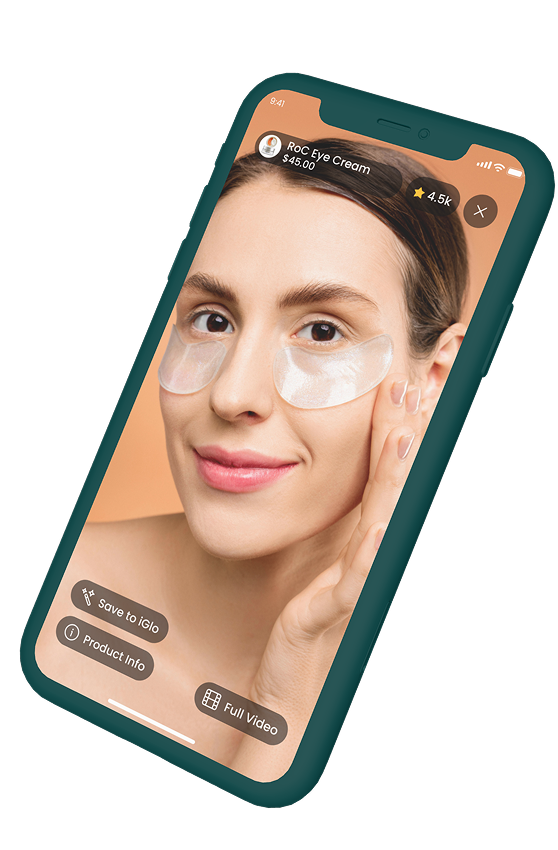
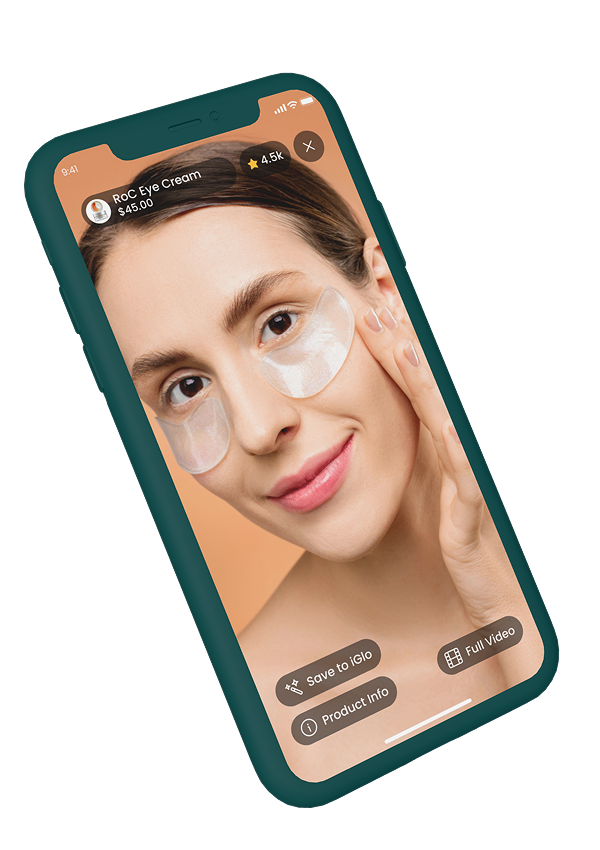
feat: add how it works section

diff --git a/components/how-it-works.tsx b/components/how-it-works.tsx
@@ -1,82 +1,100 @@
+"use client";
+
 import Image from "next/image";
+import { motion } from "framer-motion";
 import { Button } from "./ui/button";
-import { Shield, Zap, Globe } from "lucide-react";
+import { Upload, Sparkles, LineChart } from "lucide-react";
 
 export default function HowItWorks() {
   return (
     <section className="py-20">
-      <div className="grid lg:grid-cols-2 gap-16 items-center">
-        {/* Left Content */}
-        <div className="space-y-8">
-          <div className="space-y-4">
-            <h2 className="text-4xl lg:text-5xl font-bold text-balance">
-              Transfer money with confidence
-            </h2>
-            <p className="text-gray-400 text-lg text-pretty">
-              Experience seamless money transfers with bank-level security,
-              instant notifications, and competitive exchange rates. Send money
-              globally in seconds, not days.
-            </p>
-          </div>
-
-          <div className="space-y-6">
-            <div className="flex items-start gap-4">
-              <div className="bg-amber-400/20 p-3 rounded-full">
-                <Shield className="w-6 h-6 text-amber-400" />
-              </div>
-              <div>
-                <h3 className="text-xl font-semibold mb-2">
-                  Bank-level Security
-                </h3>
-                <p className="text-gray-400">
-                  Your money and data are protected with enterprise-grade
-                  encryption and fraud detection.
-                </p>
-              </div>
-            </div>
-
-            <div className="flex items-start gap-4">
-              <div className="bg-amber-400/20 p-3 rounded-full">
-                <Zap className="w-6 h-6 text-amber-400" />
-              </div>
-              <div>
-                <h3 className="text-xl font-semibold mb-2">
-                  Instant Transfers
-                </h3>
-                <p className="text-gray-400">
-                  Send money instantly to friends, family, or businesses
-                  worldwide with just a few taps.
-                </p>
-              </div>
-            </div>
-
-            <div className="flex items-start gap-4">
-              <div className="bg-amber-400/20 p-3 rounded-full">
-                <Globe className="w-6 h-6 text-amber-400" />
-              </div>
-              <div>
-                <h3 className="text-xl font-semibold mb-2">Global Reach</h3>
-                <p className="text-gray-400">
-                  Transfer to over 200 countries with competitive exchange rates
-                  and low fees.
-                </p>
-              </div>
-            </div>
-          </div>
-
-          <Button className="bg-amber-400 text-black hover:bg-amber-500 px-8 py-3 rounded-full font-medium">
-            Get Started Today
-          </Button>
-        </div>
+      <div className="max-w-4xl mx-auto text-center mb-16">
+        <h1 className="text-5xl font-bold">How It Works</h1>
+        <p className="text-gray-200 mt-4 text-lg">
+          A simple process to turn your uploads into engaging previews.
+        </p>
+      </div>
+      <div className="grid lg:grid-cols-2 gap-32 items-center">
         <div className="flex justify-center lg:justify-end">
-          <div className="relative">
+          <motion.div
+            initial={{ opacity: 0, y: 40 }}
+            animate={{
+              opacity: 1,
+              y: [0, -12, 0],
+              rotate: [0, 2, 0, -2, 0],
+            }}
+            transition={{
+              opacity: { duration: 0.6 },
+              y: { duration: 6, repeat: Infinity, ease: "easeInOut" },
+              rotate: { duration: 6, repeat: Infinity, ease: "easeInOut" },
+            }}
+            className="relative"
+          >
             <Image
               src="/how-it-works.png"
               alt="Mobile app mockup showing money transfer interface"
               width={500}
               height={1000}
             />
+          </motion.div>
+        </div>
+        <div className="space-y-8">
+          <div className="space-y-4">
+            <h2 className="text-4xl lg:text-5xl font-bold text-balance">
+              Different uploads. Different outcomes.
+            </h2>
+            <p className="text-gray-200 text-lg text-pretty">
+              Create meaningful previews designed for product pages, ads and
+              quick decisions.
+            </p>
           </div>
+
+          <div className="space-y-6">
+            <div className="flex items-start gap-4">
+              <div className="bg-amber-400/20 p-3 rounded-full">
+                <Upload className="w-6 h-6 text-amber-400" />
+              </div>
+              <div>
+                <h3 className="text-xl font-semibold mb-2">
+                  Upload your video
+                </h3>
+                <p className="text-gray-200">
+                  Share product benefits, usage and your authentic experience.
+                </p>
+              </div>
+            </div>
+
+            <div className="flex items-start gap-4">
+              <div className="bg-amber-400/20 p-3 rounded-full">
+                <Sparkles className="w-6 h-6 text-amber-400" />
+              </div>
+              <div>
+                <h3 className="text-xl font-semibold mb-2">
+                  Auto create VeeVu™
+                </h3>
+                <p className="text-gray-200">
+                  A short, engaging preview that showcases product highlights.
+                </p>
+              </div>
+            </div>
+
+            <div className="flex items-start gap-4">
+              <div className="bg-amber-400/20 p-3 rounded-full">
+                <LineChart className="w-6 h-6 text-amber-400" />
+              </div>
+              <div>
+                <h3 className="text-xl font-semibold mb-2">
+                  iGlo™ journey built
+                </h3>
+                <p className="text-gray-200">
+                  A full, AI-verified record showing truthful results over time.
+                </p>
+              </div>
+            </div>
+          </div>
+          <Button className="bg-amber-400 text-black hover:bg-amber-500 px-8 py-3 rounded-full font-medium">
+            Get Started Today
+          </Button>
         </div>
       </div>
     </section>

diff --git a/components/animated-globe.tsx b/components/animated-globe.tsx
@@ -1,0 +1,93 @@
+import React from "react";
+import { motion } from "framer-motion";
+
+export default function AnimatedGlobe() {
+  return (
+    <motion.svg
+      xmlns="http://www.w3.org/2000/svg"
+      width="24"
+      height="24"
+      viewBox="0 0 24 24"
+      fill="none"
+      stroke="currentColor"
+      style={{
+        strokeWidth: 2,
+        strokeLinecap: "round",
+        strokeLinejoin: "round",
+      }}
+    >
+      <motion.circle
+        cx="12"
+        cy="12"
+        r="10"
+        animate={{
+          pathLength: [0.5, 1, 0.5],
+          rotate: 360,
+        }}
+        transition={{
+          pathLength: {
+            duration: 2,
+            repeat: Infinity,
+            repeatType: "reverse",
+          },
+          rotate: {
+            duration: 4,
+            repeat: Infinity,
+            ease: "linear",
+          },
+        }}
+      />
+
+      <motion.path
+        d="M12 2a14.5 14.5 0 0 0 0 20"
+        animate={{
+          pathLength: [0, 1, 0],
+        }}
+        transition={{
+          duration: 2,
+          repeat: Infinity,
+          ease: "easeInOut",
+        }}
+      />
+
+      <motion.path
+        d="M12 2a14.5 14.5 0 0 1 0 20"
+        animate={{
+          pathLength: [0, 1, 0],
+        }}
+        transition={{
+          duration: 2,
+          repeat: Infinity,
+          ease: "easeInOut",
+          delay: 1,
+        }}
+      />
+
+      <motion.path
+        d="M2 12h20"
+        animate={{
+          pathLength: [0, 1, 0],
+        }}
+        transition={{
+          duration: 1.5,
+          repeat: Infinity,
+          ease: "easeInOut",
+          delay: 0.5,
+        }}
+      />
+
+      <motion.path
+        d="M12 2v20"
+        animate={{
+          pathLength: [0, 1, 0],
+        }}
+        transition={{
+          duration: 1.5,
+          repeat: Infinity,
+          ease: "easeInOut",
+          delay: 1,
+        }}
+      />
+    </motion.svg>
+  );
+}

diff --git a/components/hero-section.tsx b/components/hero-section.tsx
@@ -1,5 +1,6 @@
 import { ArrowUpRight } from "lucide-react";
 import React from "react";
+import BackgroundSvg from "./background";
 
 export function HeroSection() {
   return (
@@ -15,7 +16,7 @@ export function HeroSection() {
         true customers
       </h1>
 
-      <p className="text-gray-400 text-lg lg:text-xl max-w-2xl mx-auto text-balance">
+      <p className="text-gray-200 text-lg lg:text-xl max-w-2xl mx-auto text-balance">
         iGlo™ allows creators to journal authentic experiences and monetise
         their reviews.
       </p>

diff --git a/app/page.tsx b/app/page.tsx
@@ -1,3 +1,4 @@
+import { AnimatedSection } from "@/components/animated-section";
 import { DashboardPreview } from "@/components/dashboard-preview";
 import { HeroSection } from "@/components/hero-section";
 import HowItWorks from "@/components/how-it-works";
@@ -6,7 +7,9 @@ export default function HomePage() {
   return (
     <div className="max-w-7xl mx-auto">
       <HeroSection />
-      <DashboardPreview />
+      <AnimatedSection>
+        <DashboardPreview />
+      </AnimatedSection>
       <HowItWorks />
     </div>
   );

diff --git a/components/background.tsx b/components/background.tsx
@@ -2,7 +2,7 @@ import React from "react";
 
 const BackgroundSvg = () => {
   return (
-    <div className="absolute top-0 left-0 right-0 z-20">
+    <div className="absolute top-0 left-0 right-0">
       <svg
         width="100%"
         height="100%"
